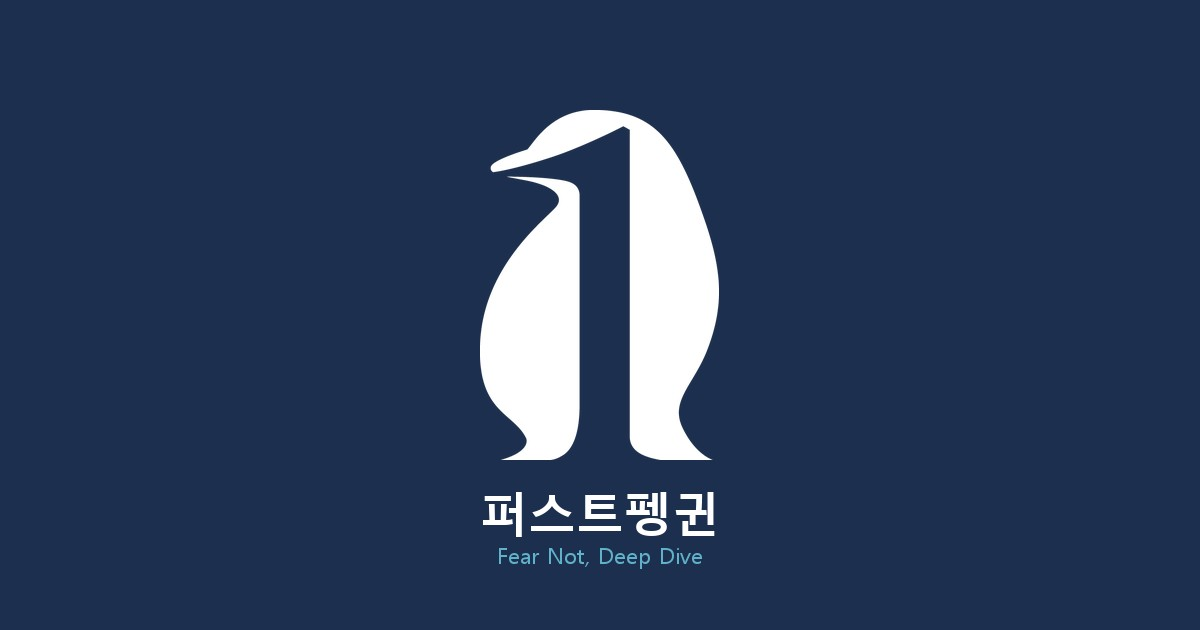
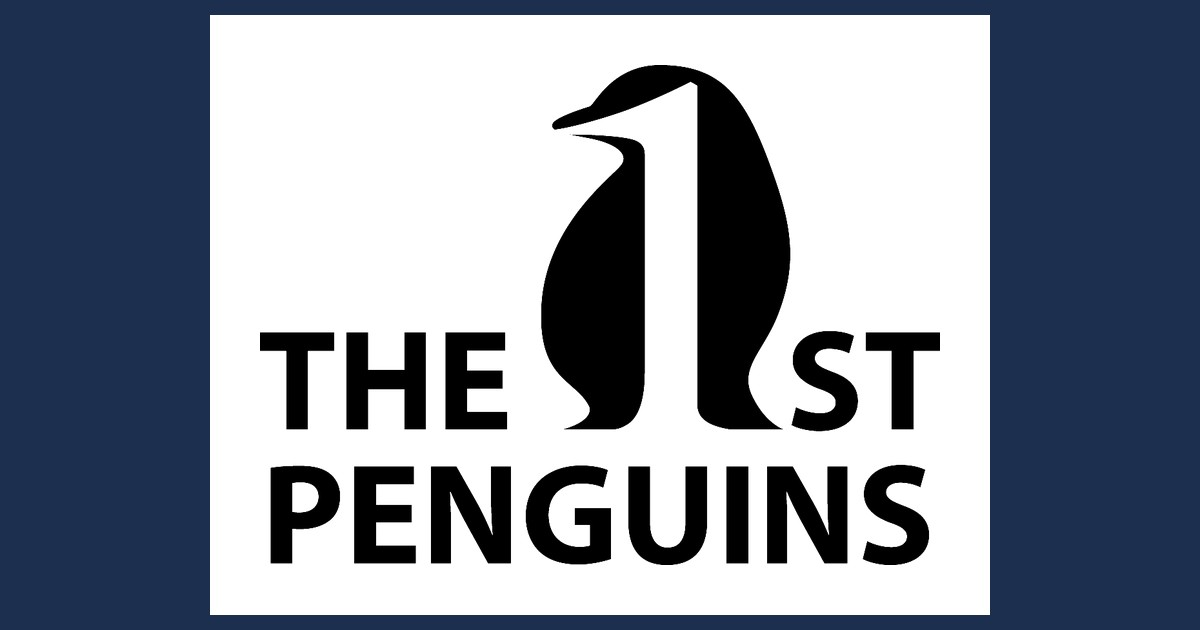
OG 이미지를 logo3(THE 1ST PENGUINS)으로 교체

diff --git a/sw.js b/sw.js
@@ -1,5 +1,5 @@
 // 배포할 때마다 이 버전을 올려야 이전 캐시가 모두 삭제됩니다
-const CACHE_VERSION = '2026031202';
+const CACHE_VERSION = '2026031203';
 const CACHE_NAME = `fp-cache-v${CACHE_VERSION}`;
 
 const PRECACHE_URLS = [
